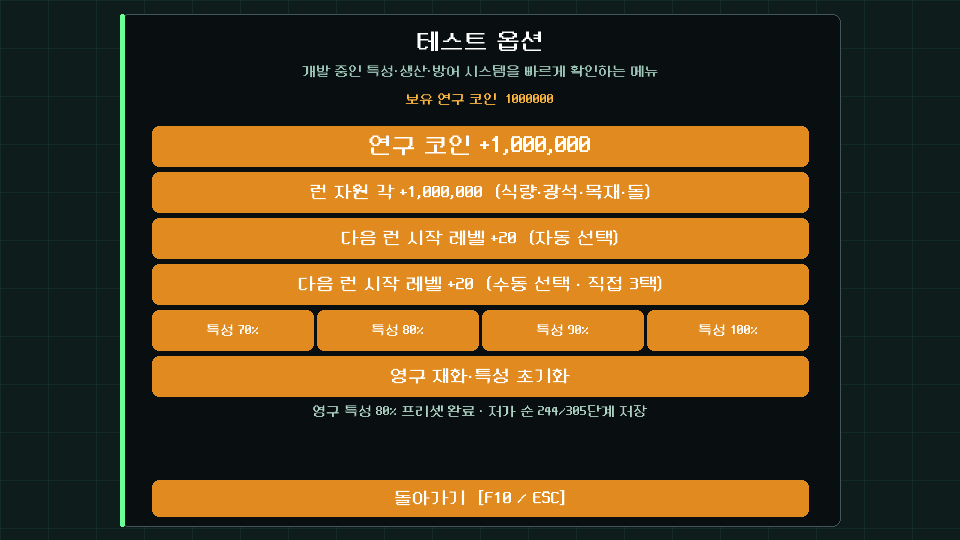
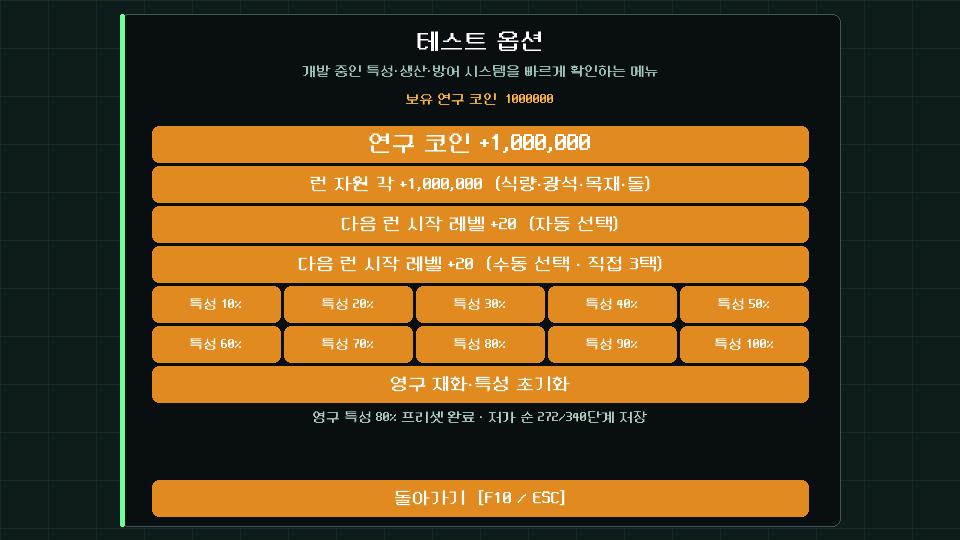
Expand developer trait presets to ten steps

Changed region(s): [[0.1562, 0.237, 0.8438, 0.8]]

diff --git a/docs/ACTIVE_DEVELOPMENT_MODE.md b/docs/ACTIVE_DEVELOPMENT_MODE.md
@@ -23,7 +23,7 @@
 - 무기·동료·운영 성장은 로비 영구 연구에서만 구매한다. 일반 작전의 카드·융합 코드는 보존하지만 기록 모드 후보 풀에는 넣지 않는다.
 - 메타 진행은 `작업 → 정산 → 기록전 영구 연구 → 즉시 다음 작업`으로 연결한다. 상세 기준은 `docs/SCORE_ATTACK_META_LOOP.md`다.
 - 로비 `P` 연습장도 같은 `score_attack` 런타임을 쓴다. 단, 시간·과밀·개체 수 상한·0그루 승급·세계수를 끄고 나무를 계속 생성하는 무한 테스트장으로 변형한다. 보유 특성과 세이브를 건드리지 않는 임시 전체 만렙 사이를 선택할 수 있다.
-- `F10` 개발자 도구에는 활성 영구 연구를 실제 가격이 싼 순서로 채우는 `70% / 80% / 90% / 100%` 저장 프리셋이 있다. 선행 조건을 지킨 정상 연구망을 만들며, 진행 중인 판에는 재시작 뒤 적용된다.
+- `F10` 개발자 도구에는 활성 영구 연구를 실제 가격이 싼 순서로 채우는 `10%~100%`(10% 단위) 저장 프리셋이 있다. 선행 조건을 지킨 정상 연구망을 만들며, 진행 중인 판에는 재시작 뒤 적용된다.
 
 ## 의도적으로 비활성화한 범위
 

diff --git a/docs/ARCHIVED_CAMPAIGN.md b/docs/ARCHIVED_CAMPAIGN.md
@@ -107,7 +107,7 @@ love .
 로비의 `테스트 옵션` 버튼이나 언제든 `F10`으로 개발용 메뉴를 엽니다.
 
 - 연구 코인 `+1,000,000`: 현재 기록 모드의 영구 특성 구매 테스트용 재화를 즉시 저장
-- 영구 특성 `70% / 80% / 90% / 100%`: 현재 기록 모드 연구를 선행조건을 지키며 실제 가격이 싼 단계부터 선택한 비율까지 맞추고 즉시 저장
+- 영구 특성 `10%~100%`(10% 단위): 현재 기록 모드 연구를 선행조건을 지키며 실제 가격이 싼 단계부터 선택한 비율까지 맞추고 즉시 저장
 - 런 자원 각 `+1,000,000`: 식량·광석·목재·돌·씨앗 지급. 로비에서는 다음 런에 예약
 - 생산 레벨 `+10`: 런 강화 3택을 연속 테스트. 로비에서는 다음 런에 예약
 - 영구 재화·특성 초기화: 4초 안에 두 번 눌러 저장된 연구 코인과 영구 특성을 모두 초기화
